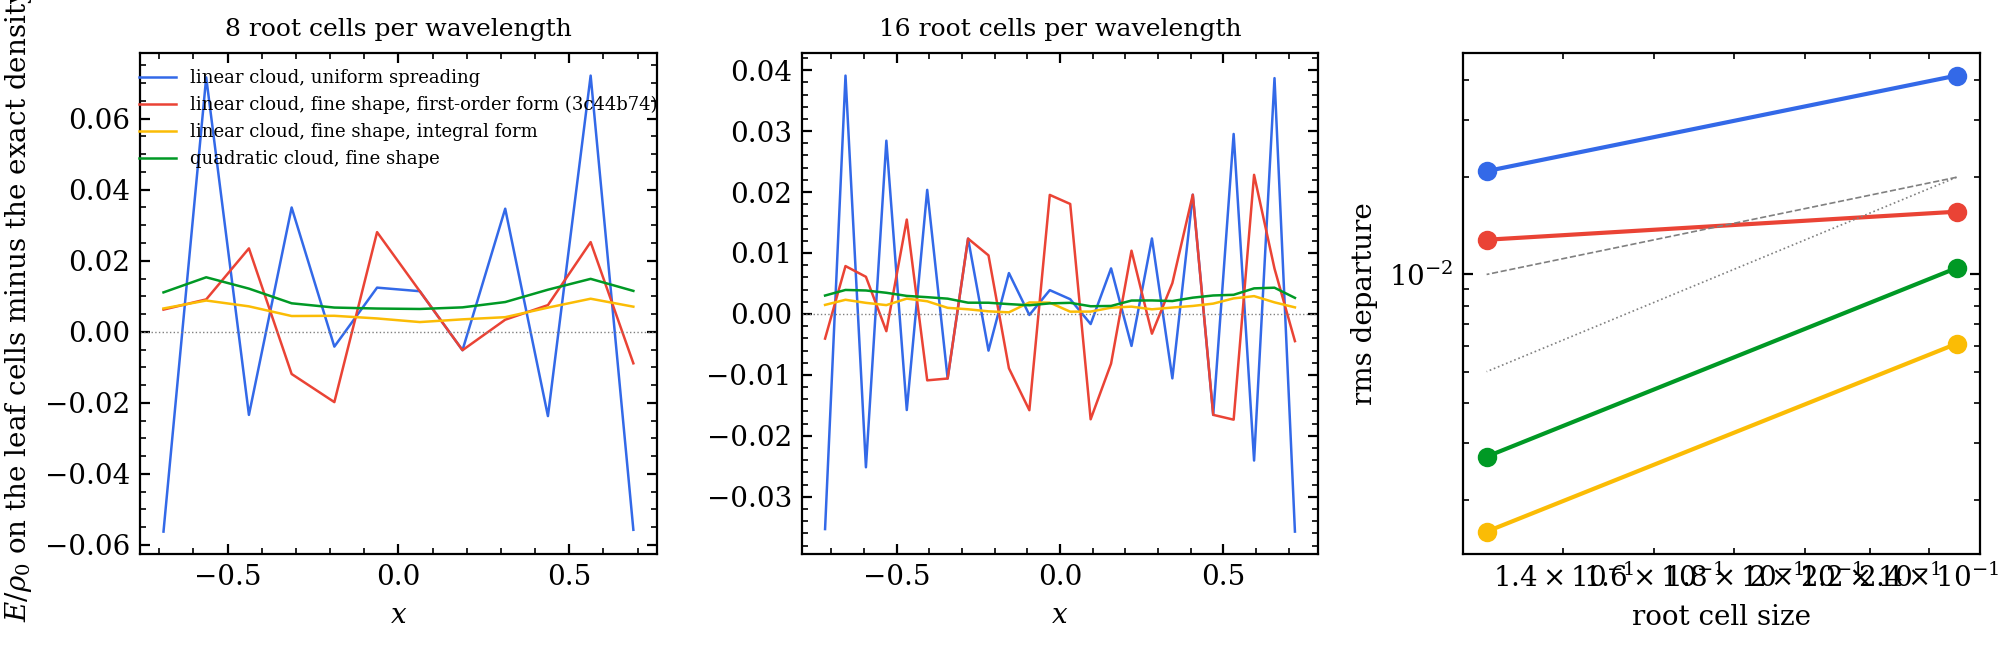
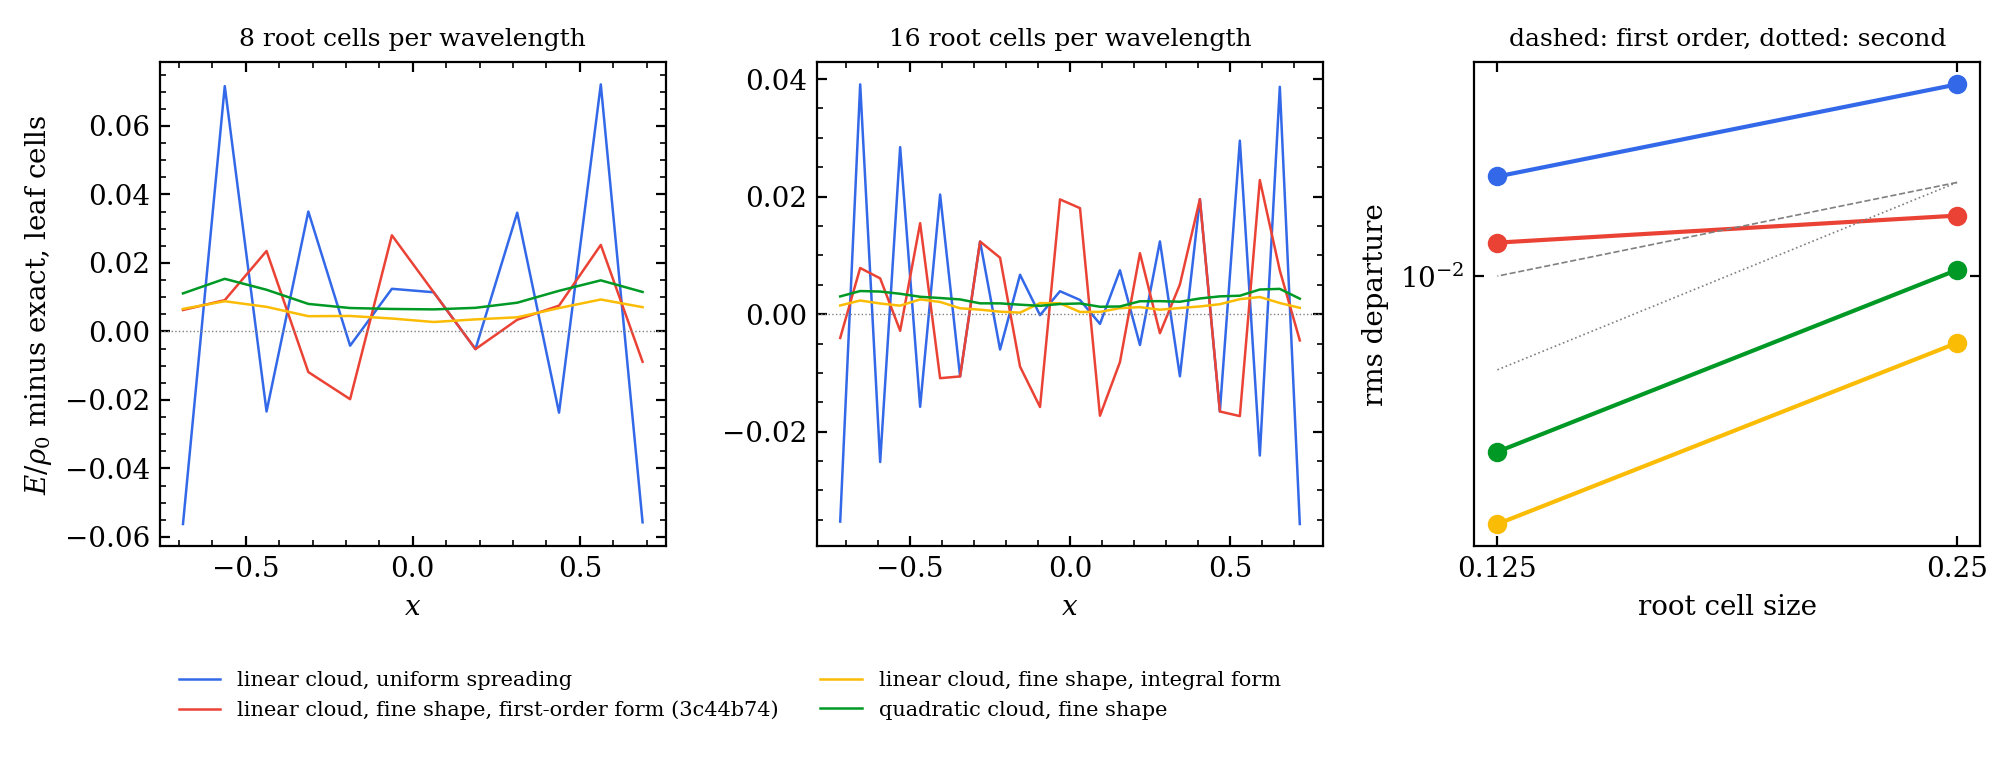
t10f_compare.py: T10f against the cases of T10e

diff --git a/tracks/core/analysis/cosmo_amr/t10f_compare.py b/tracks/core/analysis/cosmo_amr/t10f_compare.py
@@ -1,0 +1,92 @@
+#!/usr/bin/env python3
+"""T10f of the work package cosmo-amr against T10e: the S1 data to t = 3.5 with the lapse
+ladder and the fine-shape deposit of the linear cloud in its first-order form (T10e, case
+a5, source 3c44b74) and in its integral form (T10f, source 1548d49), with the uniform
+spreading (a5c) and without refinement (u5).  Nothing is run here.
+
+    t10f_compare.py --t10e RUNDIR --t10f RUNDIR --out DIR
+
+Writes DIR/t10f_summary.json and DIR/fig_t10f_compare.{pdf,png}."""
+import argparse
+import json
+import os
+import sys
+
+import numpy as np
+
+import amrlib as A
+
+
+def main():
+    ap = argparse.ArgumentParser()
+    ap.add_argument("--t10e", required=True)
+    ap.add_argument("--t10f", required=True)
+    ap.add_argument("--out", default=os.environ.get("NRPIC_RUN_DIR", "."))
+    a = ap.parse_args()
+    a.out = os.path.abspath(a.out)
+    os.makedirs(a.out, exist_ok=True)
+    cases = [("u5", a.t10e, "u5", "no refinement"),
+             ("a5old", a.t10e, "a5", "ladder, fine shape, first-order form (3c44b74)"),
+             ("a5c", a.t10e, "a5c", "ladder, uniform spreading"),
+             ("a5new", a.t10f, "a5", "ladder, fine shape, integral form (1548d49)")]
+    res, keep = {}, {}
+    for key, rd, sub, lab in cases:
+        d = os.path.join(rd, sub)
+        s = A.read_hst(os.path.join(d, "peak.cstat.hst"))
+        g = A.read_hst(os.path.join(d, "peak.region.hst"))
+        h = A.read_hst(os.path.join(d, "peak.nrpic.hst"))
+        nmb = h["nmb"].astype(int)
+        ch = np.where(np.diff(nmb) != 0)[0] + 1
+        i0 = int(ch[0]) if len(ch) else 33
+        qr = s["Hr_max"][i0+1:]/s["Hr_max"][i0:-1]
+        qa = s["H_max"][i0+1:]/s["H_max"][i0:-1]
+        res[key] = {"label": lab, "records": int(len(s["time"])),
+                    "Hr_max_largest": float(np.max(s["Hr_max"])),
+                    "Hr_max_end": float(s["Hr_max"][-1]),
+                    "H_max_end": float(s["H_max"][-1]),
+                    "largest_cycle_ratio_Hr_from_record_%d" % i0: float(np.max(qr)),
+                    "largest_cycle_ratio_H_from_record_%d" % i0: float(np.max(qa)),
+                    "H2_over_E2_in_s1_end": float(g["H2_in_s1"][-1]/g["E2_in_s1"][-1]),
+                    "region_time_end": float(g["time"][-1]),
+                    "E_min_smallest": float(np.min(h["E_min"])),
+                    "identity_max": float(np.max(np.abs(h["int_E"]/h["sum_mW"] - 1.0)))}
+        for c in (52, 53, 54, 55):
+            if c < len(s["time"]):
+                res[key]["cycle_%d" % c] = [float(s["time"][c]), float(s["Hr_max"][c]),
+                                            float(s["H_max"][c])]
+        keep[key] = (s, g)
+        print(key, json.dumps(res[key]), flush=True)
+    with open(os.path.join(a.out, "t10f_summary.json"), "w") as f:
+        json.dump(res, f, indent=1)
+        f.write("\n")
+
+    from nrpic import figstyle as fs
+    import matplotlib.pyplot as plt
+    fs.use_style()
+    fig, ax = plt.subplots(1, 3, figsize=(10.0, 3.9))
+    fig.subplots_adjust(left=0.07, right=0.99, bottom=0.30, top=0.95, wspace=0.30)
+    sty = {"u5": "-", "a5old": "-", "a5c": "--", "a5new": "-"}
+    for i, (key, _, _, lab) in enumerate(cases):
+        s, g = keep[key]
+        ax[0].semilogy(s["time"], s["Hr_max"], sty[key], color=fs.SERIES[i], label=lab)
+        ax[1].semilogy(s["time"], s["H_max"], sty[key], color=fs.SERIES[i])
+        ax[2].semilogy(g["time"], g["H2_in_s1"]/g["E2_in_s1"], sty[key], color=fs.SERIES[i])
+    ax[0].set_ylabel(r"largest relative $|H|$")
+    ax[1].set_ylabel(r"largest $|H|$")
+    ax[2].set_ylabel(r"$\|H\|_2/\|16\pi E\|_2$ inside $r=2.45$")
+    for q in ax:
+        q.set_xlabel("conformal time")
+        q.set_xlim(1.8, 3.55)
+        q.axvline(2.205, color="grey", lw=0.5, ls=":")
+    ax[0].set_ylim(3e-3, 0.3)
+    ax[1].set_ylim(3e-4, 1e-2)
+    ax[2].set_ylim(2e-3, 6e-2)
+    ax[0].legend(frameon=False, fontsize=7.5, ncol=2, loc="upper left",
+                 bbox_to_anchor=(0.0, -0.22))
+    fs.save(fig, os.path.join(a.out, "fig_t10f_compare"))
+    plt.close(fig)
+    return 0
+
+
+if __name__ == "__main__":
+    sys.exit(main())
